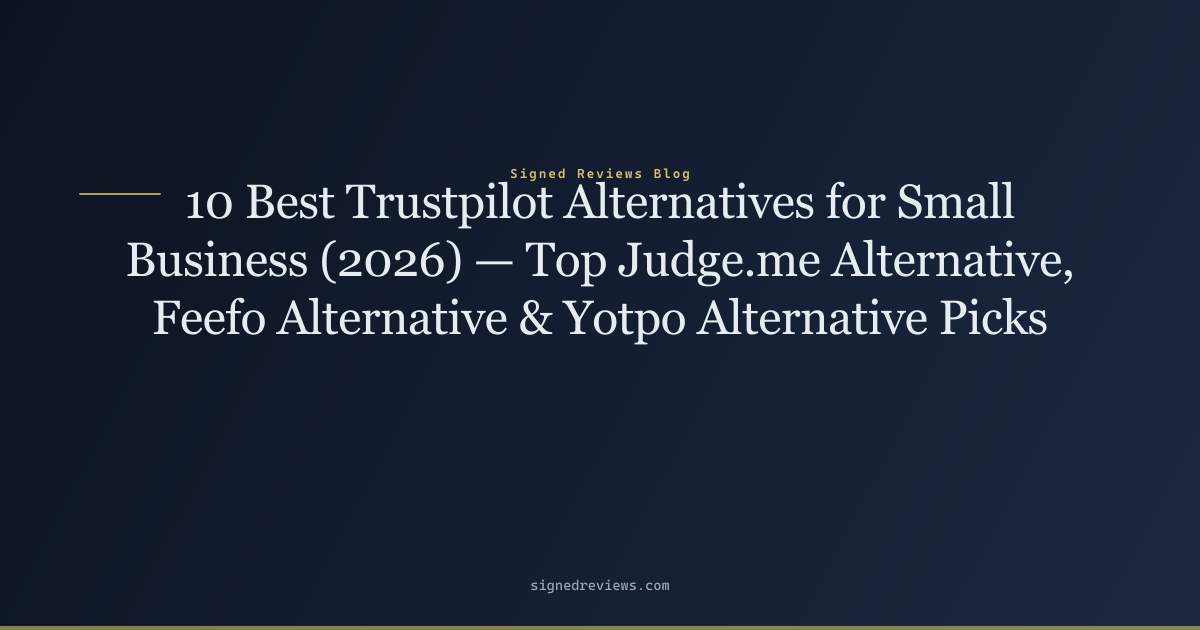
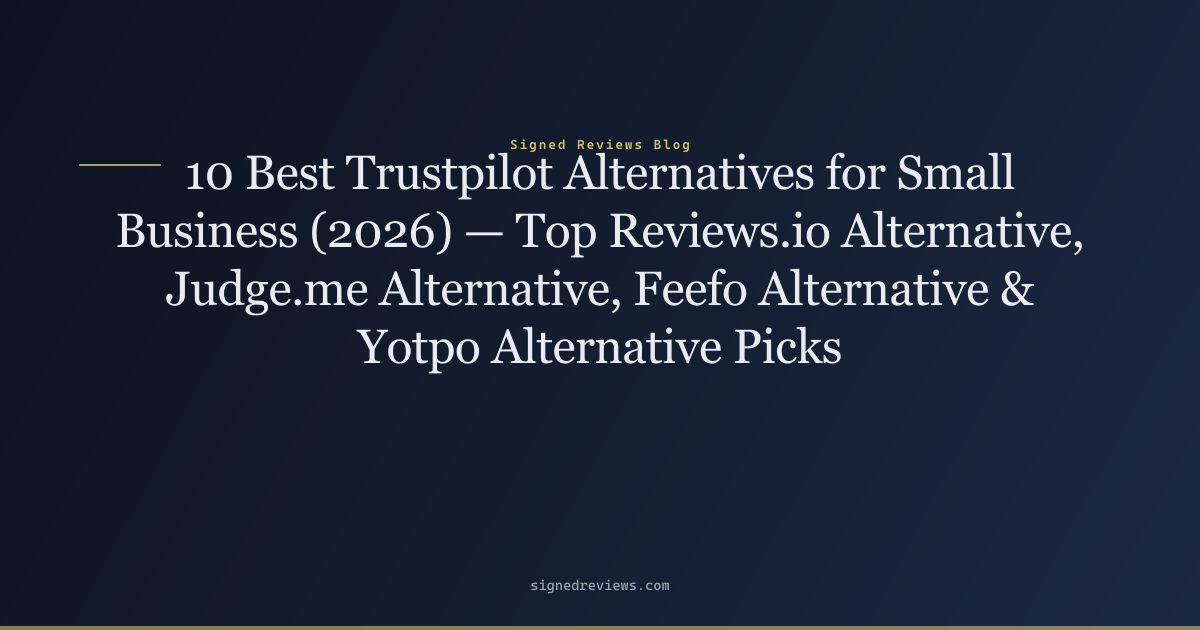
@ SEO: add "reviews.io alternative" keyword to /blog/trustpilot-alternatives-for-small-business/
- Title: added "Reviews.io Alternative" contiguously in H1
- Meta description: includes "top reviews.io alternative"
- H2: "Why a Reviews.io Alternative, Judge.me Alternative, Feefo Alternative, or Yotpo Alternative Makes Sense"
- Body: keyword in intro, Reviews.io entry (2x), and bottom line
- Internal link to /vs/reviews-io/ already present

@

Changed region(s): [[0.0925, 0.2111, 0.8942, 0.6032], [0.0925, 0.2413, 0.1233, 0.2714]]

diff --git a/blog/trustpilot-alternatives-for-small-business/index.html b/blog/trustpilot-alternatives-for-small-business/index.html
@@ -3,21 +3,21 @@
 <head>
   <meta charset="UTF-8">
   <meta name="viewport" content="width=device-width, initial-scale=1.0">
-  <title>10 Best Trustpilot Alternatives for Small Business (2026) — Top Judge.me Alternative, Feefo Alternative &amp; Yotpo Alternative Picks — Signed Reviews Blog</title>
-  <meta name="description" content="The 10 best Trustpilot alternatives for small business — including the top judge.me alternative, feefo alternative, and yotpo alternative picks. Ranked by verif">
+  <title>10 Best Trustpilot Alternatives for Small Business (2026) — Top Reviews.io Alternative, Judge.me Alternative, Feefo Alternative &amp; Yotpo Alternative Picks — Signed Reviews Blog</title>
+  <meta name="description" content="The 10 best Trustpilot alternatives for small business — including the top reviews.io alternative, judge.me alternative, feefo alternative, and yotpo alternativ">
   <link rel="canonical" href="https://signedreviews.com/blog/trustpilot-alternatives-for-small-business/">
   <meta name="robots" content="index, follow">
   <meta name="theme-color" content="#0c1320">
 
   <meta property="og:type" content="article">
-  <meta property="og:title" content="10 Best Trustpilot Alternatives for Small Business (2026) — Top Judge.me Alternative, Feefo Alternative &amp; Yotpo Alternative Picks — Signed Reviews Blog">
-  <meta property="og:description" content="The 10 best Trustpilot alternatives for small business — including the top judge.me alternative, feefo alternative, and yotpo alternative picks. Ranked by verif">
+  <meta property="og:title" content="10 Best Trustpilot Alternatives for Small Business (2026) — Top Reviews.io Alternative, Judge.me Alternative, Feefo Alternative &amp; Yotpo Alternative Picks — Signed Reviews Blog">
+  <meta property="og:description" content="The 10 best Trustpilot alternatives for small business — including the top reviews.io alternative, judge.me alternative, feefo alternative, and yotpo alternativ">
   <meta property="og:url" content="https://signedreviews.com/blog/trustpilot-alternatives-for-small-business/">
   <meta property="og:site_name" content="Signed Reviews">
   <meta property="og:image" content="https://signedreviews.com/images/og/trustpilot-alternatives-for-small-business.png">
   <meta name="twitter:card" content="summary_large_image">
-  <meta name="twitter:title" content="10 Best Trustpilot Alternatives for Small Business (2026) — Top Judge.me Alternative, Feefo Alternative &amp; Yotpo Alternative Picks — Signed Reviews Blog">
-  <meta name="twitter:description" content="The 10 best Trustpilot alternatives for small business — including the top judge.me alternative, feefo alternative, and yotpo alternative picks. Ranked by verif">
+  <meta name="twitter:title" content="10 Best Trustpilot Alternatives for Small Business (2026) — Top Reviews.io Alternative, Judge.me Alternative, Feefo Alternative &amp; Yotpo Alternative Picks — Signed Reviews Blog">
+  <meta name="twitter:description" content="The 10 best Trustpilot alternatives for small business — including the top reviews.io alternative, judge.me alternative, feefo alternative, and yotpo alternativ">
   <meta name="twitter:image" content="https://signedreviews.com/images/og/trustpilot-alternatives-for-small-business.png">
 
   <link rel="icon" type="image/png" sizes="32x32" href="/images/SignedReviews_logo_only.png?v=20260729a">
@@ -525,7 +525,7 @@ main { padding: 0; }
   <script type="application/ld+json">{"@context":"https://schema.org","@type":"Organization","name":"Signed Reviews","legalName":"Paid Rightly LLC","url":"https://signedreviews.com","logo":"https://signedreviews.com/images/SignedReviews_logo_only.png","description":"Signed Reviews is a SaaS platform that helps businesses collect verified, tamper-evident customer reviews by linking each review to a completed Stripe transaction.","email":"support@signedreviews.com","address":{"@type":"PostalAddress","streetAddress":"1209 Mountain Road Pl NE, Ste N","addressLocality":"Albuquerque","addressRegion":"NM","postalCode":"87110","addressCountry":"US"}}</script>
   <script type="application/ld+json">{"@context":"https://schema.org","@type":"BreadcrumbList","itemListElement":[{"@type":"ListItem","position":1,"name":"Home","item":"https://signedreviews.com/"},{"@type":"ListItem","position":2,"name":"Blog","item":"https://signedreviews.com/blog/"},{"@type":"ListItem","position":3,"name":"10 Best Trustpilot Alternatives for Small Business (2026)","item":"https://signedreviews.com/blog/trustpilot-alternatives-for-small-business/"}]}</script>
 
-  <script type="application/ld+json">{"@context":"https://schema.org","@type":"BlogPosting","headline":"10 Best Trustpilot Alternatives for Small Business (2026) — Top Judge.me Alternative, Feefo Alternative & Yotpo Alternative Picks","description":"The 10 best Trustpilot alternatives for small business — including the top judge.me alternative, feefo alternative, and yotpo alternative picks. Ranked by verif","datePublished":"2026-07-24","dateModified":"2026-07-24","mainEntityOfPage":{"@type":"WebPage","@id":"https://signedreviews.com/blog/trustpilot-alternatives-for-small-business/"},"image":["https://signedreviews.com/images/og/trustpilot-alternatives-for-small-business.png"],"author":{"@type":"Organization","name":"Signed Reviews","url":"https://signedreviews.com"},"publisher":{"@type":"Organization","name":"Signed Reviews","logo":{"@type":"ImageObject","url":"https://signedreviews.com/images/SignedReviews_logo_only.png"}}}</script>
+  <script type="application/ld+json">{"@context":"https://schema.org","@type":"BlogPosting","headline":"10 Best Trustpilot Alternatives for Small Business (2026) — Top Reviews.io Alternative, Judge.me Alternative, Feefo Alternative & Yotpo Alternative Picks","description":"The 10 best Trustpilot alternatives for small business — including the top reviews.io alternative, judge.me alternative, feefo alternative, and yotpo alternativ","datePublished":"2026-07-24","dateModified":"2026-07-24","mainEntityOfPage":{"@type":"WebPage","@id":"https://signedreviews.com/blog/trustpilot-alternatives-for-small-business/"},"image":["https://signedreviews.com/images/og/trustpilot-alternatives-for-small-business.png"],"author":{"@type":"Organization","name":"Signed Reviews","url":"https://signedreviews.com"},"publisher":{"@type":"Organization","name":"Signed Reviews","logo":{"@type":"ImageObject","url":"https://signedreviews.com/images/SignedReviews_logo_only.png"}}}</script>
 </head>
 <body>
   <a class="skip-link" href="#main">Skip to main content</a>
@@ -566,20 +566,20 @@ main { padding: 0; }
     <section class="page-hero">
       <div class="page-hero-inner">
         <span class="eyebrow">Blog</span>
-        <h1>10 Best Trustpilot Alternatives for Small Business (2026) — Top Judge.me Alternative, Feefo Alternative & Yotpo Alternative Picks</h1>
-        <p>The 10 best Trustpilot alternatives for small business — including the top judge.me alternative, feefo alternative, and yotpo alternative picks. Ranked by verif</p>
+        <h1>10 Best Trustpilot Alternatives for Small Business (2026) — Top Reviews.io Alternative, Judge.me Alternative, Feefo Alternative & Yotpo Alternative Picks</h1>
+        <p>The 10 best Trustpilot alternatives for small business — including the top reviews.io alternative, judge.me alternative, feefo alternative, and yotpo alternativ</p>
       </div>
     </section>
     <div class="prose-wrap">
       <article class="prose" style="max-width: var(--max-prose)">
       <p class="post-meta" style="color:var(--muted);font-size:.9rem;margin-bottom:1.5rem;">2026-07-24</p>
       
-<p><strong>Published:</strong> 2026-07-24 · <strong>Author:</strong> Signed Reviews Team · <strong>Description:</strong> The 10 best Trustpilot alternatives for small business — including the top judge.me alternative, feefo alternative, and yotpo alternative picks. Ranked by verification strength with pricing, comparisons, and recommendations by business type.</p>
+<p><strong>Published:</strong> 2026-07-24 · <strong>Author:</strong> Signed Reviews Team · <strong>Description:</strong> The 10 best Trustpilot alternatives for small business — including the top reviews.io alternative, judge.me alternative, feefo alternative, and yotpo alternative picks. Ranked by verification strength with pricing, comparisons, and recommendations by business type.</p>
 <hr>
 <p>Trustpilot is the largest review platform on the internet — 361 million reviews, roughly 55% market share, and a brand consumers recognize. But it&#39;s not always the best fit, and for many businesses it&#39;s actively the wrong one. Anyone can post on Trustpilot without buying anything. The &quot;Verified&quot; badge most people associate with Trustpilot means the business invited the reviewer by email — not that a payment was independently confirmed. And pricing starts at $299/month for the tier most businesses actually need.</p>
-<p>Looking for a yotpo alternative, feefo alternative, or judge.me alternative? This guide ranks the 10 best trustpilot alternatives for small business by verification strength — including the top picks for Stripe businesses.</p>
+<p>Looking for a yotpo alternative, feefo alternative, judge.me alternative, or reviews.io alternative? This guide ranks the 10 best trustpilot alternatives for small business by verification strength — including the top picks for Stripe businesses.</p>
 <hr>
-<h2 id="why-a-judgeme-alternative-feefo-alternative-or-yotpo-alternative-makes-sense"><a class="anchor" href="#why-a-judgeme-alternative-feefo-alternative-or-yotpo-alternative-makes-sense" aria-label="Permalink to Why a Judge.me Alternative, Feefo Alternative, or Yotpo Alternative Makes Sense">#</a> Why a Judge.me Alternative, Feefo Alternative, or Yotpo Alternative Makes Sense</h2>
+<h2 id="why-a-reviewsio-alternative-judgeme-alternative-feefo-alternative-or-yotpo-alter"><a class="anchor" href="#why-a-reviewsio-alternative-judgeme-alternative-feefo-alternative-or-yotpo-alter" aria-label="Permalink to Why a Reviews.io Alternative, Judge.me Alternative, Feefo Alternative, or Yotpo Alternative Makes Sense">#</a> Why a Reviews.io Alternative, Judge.me Alternative, Feefo Alternative, or Yotpo Alternative Makes Sense</h2>
 <p>Yotpo dominates the enterprise DTC space — but for small businesses, it&#39;s often the wrong fit. Pricing scales aggressively with review volume, the feature set is built for marketing teams with dedicated headcount, and the verification model is still Level 3 (merchant-supplied order data). If you&#39;re a small team processing payments through Stripe, the best yotpo alternative is one that verifies against your payment processor&#39;s independent records — not against your own store data.</p>
 <p>The key question when evaluating any yotpo alternative is the same one that drives this entire ranking: when a review says &quot;Verified,&quot; who did the verifying? Yotpo&#39;s answer is &quot;the merchant&#39;s Shopify order records.&quot; A Stripe-native yotpo alternative answers &quot;the payment processor.&quot; That&#39;s the difference between Level 3 and Level 4 — and for businesses that want reviews they can&#39;t fake even if they tried, it&#39;s the difference that matters. See <a href="/how-it-works/">how Signed Reviews works</a> for the full verification flow.</p>
 <hr>
@@ -671,7 +671,7 @@ main { padding: 0; }
 | Stripe-native | ❌ No |
 | Review ownership | ✅ Yes |
 | Best for | UK/European businesses |</p>
-<p>Reviews.io is the most-recommended Trustpilot alternative in UK e-commerce circles. &quot;Verified Reviewer&quot; status comes through its invitation system using customer data the business provides (a list upload or an integration). It also allows manual receipt verification — customers can submit proof of purchase. Google Review Partner. Good feature set, strong brand.</p>
+<p>Reviews.io is the most-recommended Trustpilot alternative in UK e-commerce circles, making it a common starting point when searching for a reviews.io alternative. &quot;Verified Reviewer&quot; status comes through its invitation system using customer data the business provides (a list upload or an integration). It also allows manual receipt verification — customers can submit proof of purchase. Google Review Partner. Good feature set, strong brand. If you&#39;re on Stripe, the best reviews.io alternative is one with processor-level verification instead of merchant-supplied data — and a transparent pricing page.</p>
 <p><strong>Why it&#39;s #5:</strong> Solid all-rounder for UK businesses. The manual receipt verification path is interesting but doesn&#39;t scale. Still Level 3 — the business supplies the customer data.</p>
 <p>→ <a href="/vs/reviews-io/">Signed Reviews vs Reviews.io</a></p>
 <h3 id="6-ekomi-google-review-partner-with-transaction-language"><a class="anchor" href="#6-ekomi-google-review-partner-with-transaction-language" aria-label="Permalink to 6. eKomi — ★ Google Review Partner with transaction language">#</a> 6. eKomi — ★ Google Review Partner with transaction language</h3>
@@ -881,7 +881,7 @@ main { padding: 0; }
 <p>The smartest approach for most Stripe businesses: <strong>use Signed Reviews as your verified-review engine</strong> (Level 4, every review backed by a confirmed Stripe charge) and maintain a Trustpilot presence selectively. Your verified reviews live on your own site, your public profile page, and Google via structured data. Trustpilot becomes a distribution channel, not your review strategy&#39;s foundation.</p>
 <hr>
 <h2 id="bottom-line"><a class="anchor" href="#bottom-line" aria-label="Permalink to Bottom line">#</a> Bottom line</h2>
-<p>Most &quot;trustpilot alternatives for small business&quot; lists are really just &quot;review platforms ranked by monthly price.&quot; The more important question is: <strong>when a review says &quot;Verified,&quot; verified by whom?</strong> Whether you&#39;re looking for a trustpilot alternative, a yotpo alternative, a feefo alternative, a judge.me alternative, or all four, the verification level is what separates platforms that genuinely prove authenticity from platforms that just claim it.</p>
+<p>Most &quot;trustpilot alternatives for small business&quot; lists are really just &quot;review platforms ranked by monthly price.&quot; The more important question is: <strong>when a review says &quot;Verified,&quot; verified by whom?</strong> Whether you&#39;re looking for a trustpilot alternative, a yotpo alternative, a feefo alternative, a judge.me alternative, a reviews.io alternative, or all five, the verification level is what separates platforms that genuinely prove authenticity from platforms that just claim it.</p>
 <p>If the answer is &quot;the merchant,&quot; you&#39;re at Level 3 — and so is every major platform except one. If you process payments through Stripe, you can operate at Level 4 — processor-attested verification — and offer your customers something structurally more credible than anything a merchant-supplied platform can provide.</p>
 <p><strong>Further reading:</strong></p>
 <ul>

diff --git a/blog/index.html b/blog/index.html
@@ -588,9 +588,9 @@ main { padding: 0; }
       <p style="margin:0;color:var(--text);font-size:.95rem;">Trustpilot pricing explained: what each plan actually costs in 2026. See the real prices, hidden costs, and how alternatives compare.</p>
     </div>
     <div style="margin-bottom:1.5rem;padding-bottom:1.5rem;border-bottom:1px solid var(--border);">
-      <h2 style="margin:0 0 .3rem;font-size:1.25rem;"><a href="/blog/trustpilot-alternatives-for-small-business/" style="text-decoration:none;">10 Best Trustpilot Alternatives for Small Business (2026) — Top Judge.me Alternative, Feefo Alternative &amp; Yotpo Alternative Picks</a></h2>
+      <h2 style="margin:0 0 .3rem;font-size:1.25rem;"><a href="/blog/trustpilot-alternatives-for-small-business/" style="text-decoration:none;">10 Best Trustpilot Alternatives for Small Business (2026) — Top Reviews.io Alternative, Judge.me Alternative, Feefo Alternative &amp; Yotpo Alternative Picks</a></h2>
       <p class="post-meta" style="color:var(--muted);font-size:.85rem;margin:0 0 .4rem;">2026-07-24</p>
-      <p style="margin:0;color:var(--text);font-size:.95rem;">The 10 best Trustpilot alternatives for small business — including the top judge.me alternative, feefo alternative, and yotpo alternative picks. Ranked by verif</p>
+      <p style="margin:0;color:var(--text);font-size:.95rem;">The 10 best Trustpilot alternatives for small business — including the top reviews.io alternative, judge.me alternative, feefo alternative, and yotpo alternativ</p>
     </div>
     <div style="margin-bottom:1.5rem;padding-bottom:1.5rem;border-bottom:1px solid var(--border);">
       <h2 style="margin:0 0 .3rem;font-size:1.25rem;"><a href="/blog/trustpilot-alternatives-for-saas/" style="text-decoration:none;">Trustpilot Alternatives for SaaS: Why Most Review Platforms Don't Fit Subscription Businesses</a></h2>

diff --git a/files/blog/trustpilot-alternatives-for-small-business.md b/files/blog/trustpilot-alternatives-for-small-business.md
@@ -1,16 +1,16 @@
-# 10 Best Trustpilot Alternatives for Small Business (2026) — Top Judge.me Alternative, Feefo Alternative & Yotpo Alternative Picks
+# 10 Best Trustpilot Alternatives for Small Business (2026) — Top Reviews.io Alternative, Judge.me Alternative, Feefo Alternative & Yotpo Alternative Picks
 
-**Published:** 2026-07-24 · **Author:** Signed Reviews Team · **Description:** The 10 best Trustpilot alternatives for small business — including the top judge.me alternative, feefo alternative, and yotpo alternative picks. Ranked by verification strength with pricing, comparisons, and recommendations by business type.
+**Published:** 2026-07-24 · **Author:** Signed Reviews Team · **Description:** The 10 best Trustpilot alternatives for small business — including the top reviews.io alternative, judge.me alternative, feefo alternative, and yotpo alternative picks. Ranked by verification strength with pricing, comparisons, and recommendations by business type.
 
 ---
 
 Trustpilot is the largest review platform on the internet — 361 million reviews, roughly 55% market share, and a brand consumers recognize. But it's not always the best fit, and for many businesses it's actively the wrong one. Anyone can post on Trustpilot without buying anything. The "Verified" badge most people associate with Trustpilot means the business invited the reviewer by email — not that a payment was independently confirmed. And pricing starts at $299/month for the tier most businesses actually need.
 
-Looking for a yotpo alternative, feefo alternative, or judge.me alternative? This guide ranks the 10 best trustpilot alternatives for small business by verification strength — including the top picks for Stripe businesses.
+Looking for a yotpo alternative, feefo alternative, judge.me alternative, or reviews.io alternative? This guide ranks the 10 best trustpilot alternatives for small business by verification strength — including the top picks for Stripe businesses.
 
 ---
 
-## Why a Judge.me Alternative, Feefo Alternative, or Yotpo Alternative Makes Sense
+## Why a Reviews.io Alternative, Judge.me Alternative, Feefo Alternative, or Yotpo Alternative Makes Sense
 
 Yotpo dominates the enterprise DTC space — but for small businesses, it's often the wrong fit. Pricing scales aggressively with review volume, the feature set is built for marketing teams with dedicated headcount, and the verification model is still Level 3 (merchant-supplied order data). If you're a small team processing payments through Stripe, the best yotpo alternative is one that verifies against your payment processor's independent records — not against your own store data.
 
@@ -102,7 +102,7 @@ Feefo is the closest positioning competitor to Signed Reviews on paper — they 
 | Review ownership | ✅ Yes |
 | Best for | UK/European businesses |
 
-Reviews.io is the most-recommended Trustpilot alternative in UK e-commerce circles. "Verified Reviewer" status comes through its invitation system using customer data the business provides (a list upload or an integration). It also allows manual receipt verification — customers can submit proof of purchase. Google Review Partner. Good feature set, strong brand.
+Reviews.io is the most-recommended Trustpilot alternative in UK e-commerce circles, making it a common starting point when searching for a reviews.io alternative. "Verified Reviewer" status comes through its invitation system using customer data the business provides (a list upload or an integration). It also allows manual receipt verification — customers can submit proof of purchase. Google Review Partner. Good feature set, strong brand. If you're on Stripe, the best reviews.io alternative is one with processor-level verification instead of merchant-supplied data — and a transparent pricing page.
 
 **Why it's #5:** Solid all-rounder for UK businesses. The manual receipt verification path is interesting but doesn't scale. Still Level 3 — the business supplies the customer data.
 
@@ -222,7 +222,7 @@ The smartest approach for most Stripe businesses: **use Signed Reviews as your v
 
 ## Bottom line
 
-Most "trustpilot alternatives for small business" lists are really just "review platforms ranked by monthly price." The more important question is: **when a review says "Verified," verified by whom?** Whether you're looking for a trustpilot alternative, a yotpo alternative, a feefo alternative, a judge.me alternative, or all four, the verification level is what separates platforms that genuinely prove authenticity from platforms that just claim it.
+Most "trustpilot alternatives for small business" lists are really just "review platforms ranked by monthly price." The more important question is: **when a review says "Verified," verified by whom?** Whether you're looking for a trustpilot alternative, a yotpo alternative, a feefo alternative, a judge.me alternative, a reviews.io alternative, or all five, the verification level is what separates platforms that genuinely prove authenticity from platforms that just claim it.
 
 If the answer is "the merchant," you're at Level 3 — and so is every major platform except one. If you process payments through Stripe, you can operate at Level 4 — processor-attested verification — and offer your customers something structurally more credible than anything a merchant-supplied platform can provide.
 
